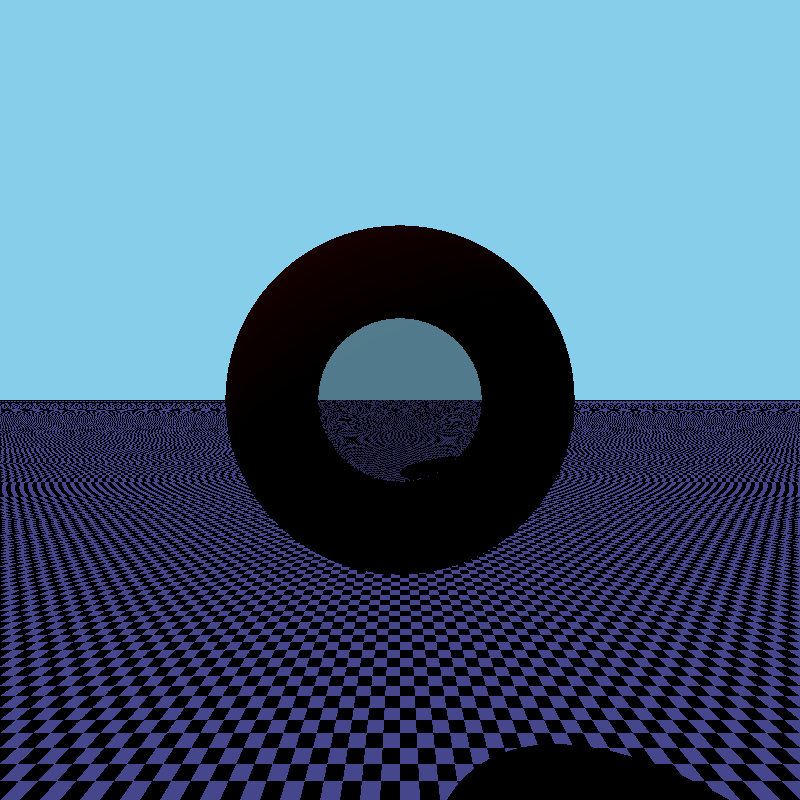
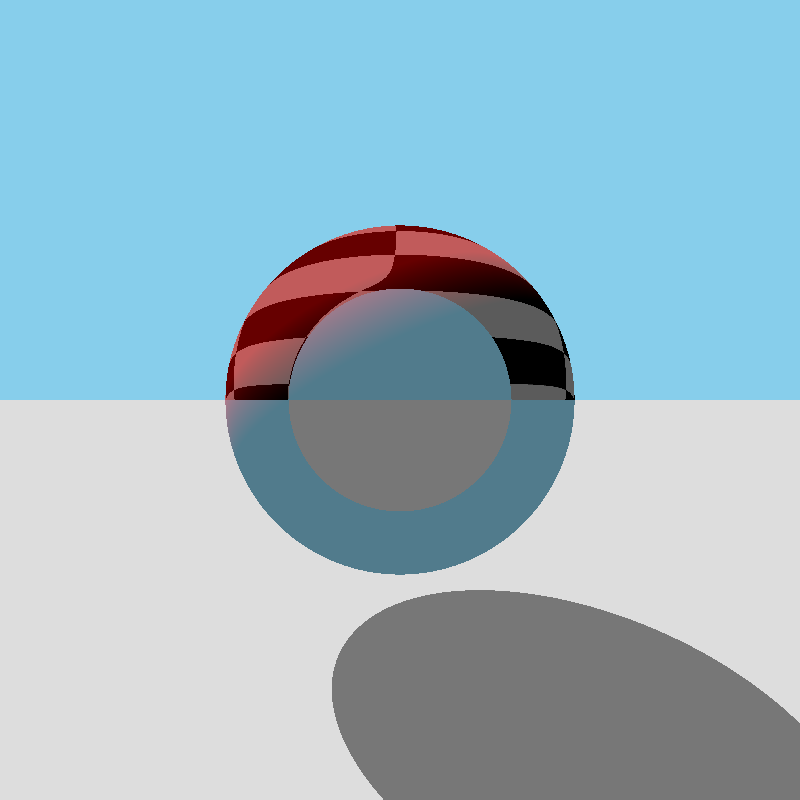
arreglados problemas con texturas de esferas

diff --git a/src/lib.rs b/src/lib.rs
@@ -189,20 +189,76 @@ mod tests{
         escena.render().save("esfera_centrada.png").unwrap();
     }
     #[test]
-    #[ignore]
     fn refraccion_solamente(){
         let mut escena = Scene::new();
         escena.color_de_fondo = Color::from_rgb(135, 206, 235);
         escena.widht = 800;
         escena.height = 800;
-        escena.lights.push(Light::Directional(DirectionalLight::new_values(Color::new(0.1,0.1, 0.2),Vector3D::new(0.5, -1.0, 0.25),20.0)));
+        escena.lights.push(Light::Directional(DirectionalLight::new_values(Color::new_white(),Vector3D::new(0.5, -1.0, 0.25),20.0)));
         escena.objects_list.push(Object::Sphere(Sphere::new(
             Point3D::new(0.0, 0.0, -5.0),
             2.0,
             Material::new( 
                 Texture::SolidColor(Color::new(1.0,0.0,0.0)),
                 0.5,
-                MaterialType::Refractive{refraction_index: 0.5,transparency:0.6}
+                MaterialType::Refractive{refraction_index: 1.5,transparency:0.6}
+            )
+        )));
+        escena.objects_list.push(Object::Plane(Plane::new(
+            Point3D::new(0.0,-3.0,0.0),
+            Vector3D::new(0.0, 1.0, 0.0), 
+            Material::new( 
+                Texture::SolidColor(Color::new(0.9,0.9,0.9)),
+                0.5,
+                MaterialType::Refractive{refraction_index: 1.8,transparency: 0.6},
+            )
+        )));
+        escena.objects_list.push(Object::Plane(Plane::new(
+            Point3D::new(0.0,-5.0,0.0),
+            Vector3D::new(0.0, 1.0, 0.0), 
+            Material::new( 
+                Texture::new_texture(
+                    "checkerboard.png".to_string()
+                ),
+                0.5,
+                MaterialType::Opaque,
+            )
+        )));
+        escena.render().save("esfera_refractada.png").unwrap();
+    }
+    #[test]
+    fn prueba_texturas() {
+        let mut escena = Scene::new();
+        escena.color_de_fondo = Color::from_rgb(135, 206, 235);
+        escena.widht = 800;
+        escena.height = 800;
+        escena.lights.push(Light::Directional(DirectionalLight::new_values(Color::new_white(),Vector3D::new(-1.0, -1.0, -1.0),20.0)));
+        escena.objects_list.push(Object::Sphere(Sphere::new(
+            Point3D::new(0.0, 0.0, -5.0),
+            2.0,
+            Material::new( 
+                Texture::new_texture("checkerboard.png".to_string()),
+                    0.5,
+                    MaterialType::Opaque
+            )
+        )));
+        escena.objects_list.push(Object::Sphere(Sphere::new(
+            Point3D::new(4.0, -4.0, -10.0),
+            2.0,
+            Material::new( 
+                Texture::new_texture("checkerboard.png".to_string()),
+                0.5,
+                MaterialType::Opaque
+            )
+        )));
+        escena.objects_list.push(Object::Sphere(Sphere::new(
+            Point3D::new(4.0, -2.0, -10.0),
+            2.0,
+            Material::new( 
+                Texture::new_texture("checkerboard.png".to_string()),
+                    0.5,
+                    MaterialType::Opaque
+                
             )
         )));
         escena.objects_list.push(Object::Plane(Plane::new(
@@ -210,10 +266,28 @@ mod tests{
             Vector3D::new(0.0, 1.0, 0.0), 
             Material::new( 
                 Texture::new_texture("checkerboard.png".to_string()),
-                0.5,
-                MaterialType::Opaque,
+                    0.5,
+                    MaterialType::Opaque
             )
         )));
-        escena.render().save("esfera_refractada.png").unwrap();
+        escena.objects_list.push(Object::Plane(Plane::new(
+            Point3D::new(0.0,-5.0,-15.0),
+            Vector3D::new(0.0, 0.0, 1.0), 
+            Material::new( 
+                Texture::new_texture("checkerboard.png".to_string()),
+                    0.5,
+                    MaterialType::Opaque
+            )
+        )));
+        escena.objects_list.push(Object::Plane(Plane::new(
+            Point3D::new(-4.0,0.0,0.0),
+            Vector3D::new(1.0, 0.0, 0.0), 
+            Material::new( 
+                Texture::new_texture("checkerboard.png".to_string()),
+                    0.5,
+                    MaterialType::Opaque
+            )
+        )));
+        escena.render().save("texturas.png").unwrap();
     }
 }

diff --git a/src/objects.rs b/src/objects.rs
@@ -56,13 +56,25 @@ impl Ray{
             )
     }
     pub fn refraction(&self,scene: &Scene,surface_normal: &Vector3D, index: f64, hit_point: &Point3D)->Option<Ray>{
-        let n = scene.indice_refraccion_medio / index;
-        let interno =1.0-(1.0-(surface_normal.dot_product(&self.direccion).abs() / (surface_normal.module() * self.direccion.module())).powi(2))*n.powi(2);
-        if interno < 0.0{
+        //Ley de Snell: ni * sen(theta_i) = nt * sen(theta_t)
+        let n;
+        let incidente = self.direccion.clone().normalize();
+        let mut normal = surface_normal.clone().normalize();
+        let mut dot_product = incidente.dot_product(&normal);
+        if dot_product < 0.0{
+            dot_product *=-1.0;
+            n = scene.indice_refraccion_medio / index;
+        }else{
+            normal = -1.0 * normal;
+            n = index/scene.indice_refraccion_medio;
+        }
+        
+        let argumento_sqrt = 1.0- (n*n * (1.0 -dot_product * dot_product) );
+        if argumento_sqrt < 0.0{
             return None;
         }
-        let director = n * (self.direccion.clone()+(self.direccion.dot_product(surface_normal).abs())*-1.0*surface_normal.clone()) - interno.sqrt() *-1.0* surface_normal.clone();
-        Some(Ray::new(hit_point.clone()+(surface_normal.clone() * scene.shadow_bias).into_point(),director))
+        let transmitido = n * incidente.clone() + (n * dot_product-argumento_sqrt.sqrt())*normal.clone();
+        Some(Ray::new(hit_point.clone() + (normal * scene.shadow_bias).into_point(),transmitido))
     }
 }
 // LA IDEA ES ELIMINARLO CUANDO SEA MAS VIABLE TRABAJAR CON TRAIT OBJECTS, QUE VUELVA A COMO AL COMIENZO
@@ -125,8 +137,7 @@ pub trait SceneObject{
         if current_recurtion == scene.max_reflections{
             return Color::black();
         }
-        let material: &Material = self.object_material();
-        match material.tipo{
+        match self.object_material().tipo{
             MaterialType::Opaque=>return self.get_color(hit_point, scene),
             MaterialType::Refractive{refraction_index, transparency}=>{
                 let mut color = self.get_color(hit_point, scene)* (1.0-transparency);
@@ -246,8 +257,9 @@ pub mod objects{
             hit_point.substract(&self.center).normalize()
         }
         fn texture_coordinates(&self,hit_point: &Point3D)->TextureCoordinates{
-            let x = (1.0+hit_point.z.atan2(hit_point.x)/std::f64::consts::PI)*0.5; //declinacion
-            let y = f64::acos(hit_point.y/self.radio)/std::f64::consts::PI;// altura
+            let punto = hit_point.clone() - self.center.clone();
+            let x = (1.0+punto.z.atan2(punto.x)/std::f64::consts::PI)*0.5; //declinacion
+            let y = f64::acos(punto.y/self.radio)/std::f64::consts::PI;// altura
             TextureCoordinates::new(x,y)
         }
         fn object_material(&self)->&Material{
